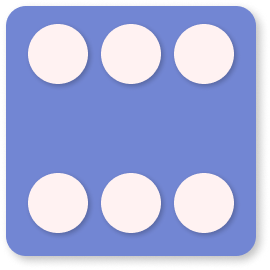
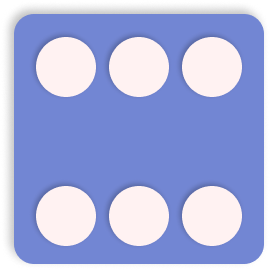
add animation and dice image change

diff --git a/script.js b/script.js
@@ -1,4 +1,11 @@
+let dice = document.querySelector(".dice")
 let rollButton = document.querySelector(".rollButton");
+dice.animate
+dice.src='/images/One.png';
+
+setInterval(()=>{
+
+},1000)
 
 rollButton.addEventListener("click",()=>{
     rollDice()
@@ -8,23 +15,29 @@ const rollDice = roll = ()=>{
     let randomNumber = Math.floor(Math.random()*6 + 1)
     switch(randomNumber){
         case 1:
-            console.log("rolled 1!")
+            dice.src='/images/One.png';
         break;
-        case 2:
-            console.log("rolled 2!")
+
+        case 2: 
+            dice.src='/images/Two.png';
         break;
+
         case 3:
-            console.log("rolled 3!")
+            dice.src='/images/Three.png';
         break;
+
         case 4:
-            console.log("rolled 4!")
+            dice.src='/images/Four.png';
         break;
+
         case 5:
-            console.log("rolled 5!")
+            dice.src='/images/Five.png';
         break;
+
         case 6:
-            console.log("rolled 6!")
+            dice.src='/images/Six.png';
         break;
+
         default:
             console.log("rolled")
     }

diff --git a/style.css b/style.css
@@ -3,13 +3,26 @@
     padding: 0;
     box-sizing: border-box;
 }
-.diceContainer{
-    text-align: center;
-    width: 100%;
-}
 
 .rollButton {
     display: block;
     width: 80px;
-    margin:auto;
+    margin:2em auto 0;
+  }
+
+  .diceContainer {
+    text-align: center;
+    animation: zoom-in-zoom-out 1s ease infinite;
+  }
+  
+  @keyframes zoom-in-zoom-out {
+    0% {
+      transform: scale(1, 1);
+    }
+    50% {
+      transform: scale(1.1, 1.1);
+    }
+    100% {
+      transform: scale(1, 1);
+    }
   }

diff --git a/index.html b/index.html
@@ -9,7 +9,7 @@
 <body>
     <main class="mainContainer">
         <div class="diceContainer">
-            <img src="/images/One.png" alt="">
+            <img class="dice" src="" alt="">
         </div>
         <button class="rollButton">Roll Dice</button>
     </main>
